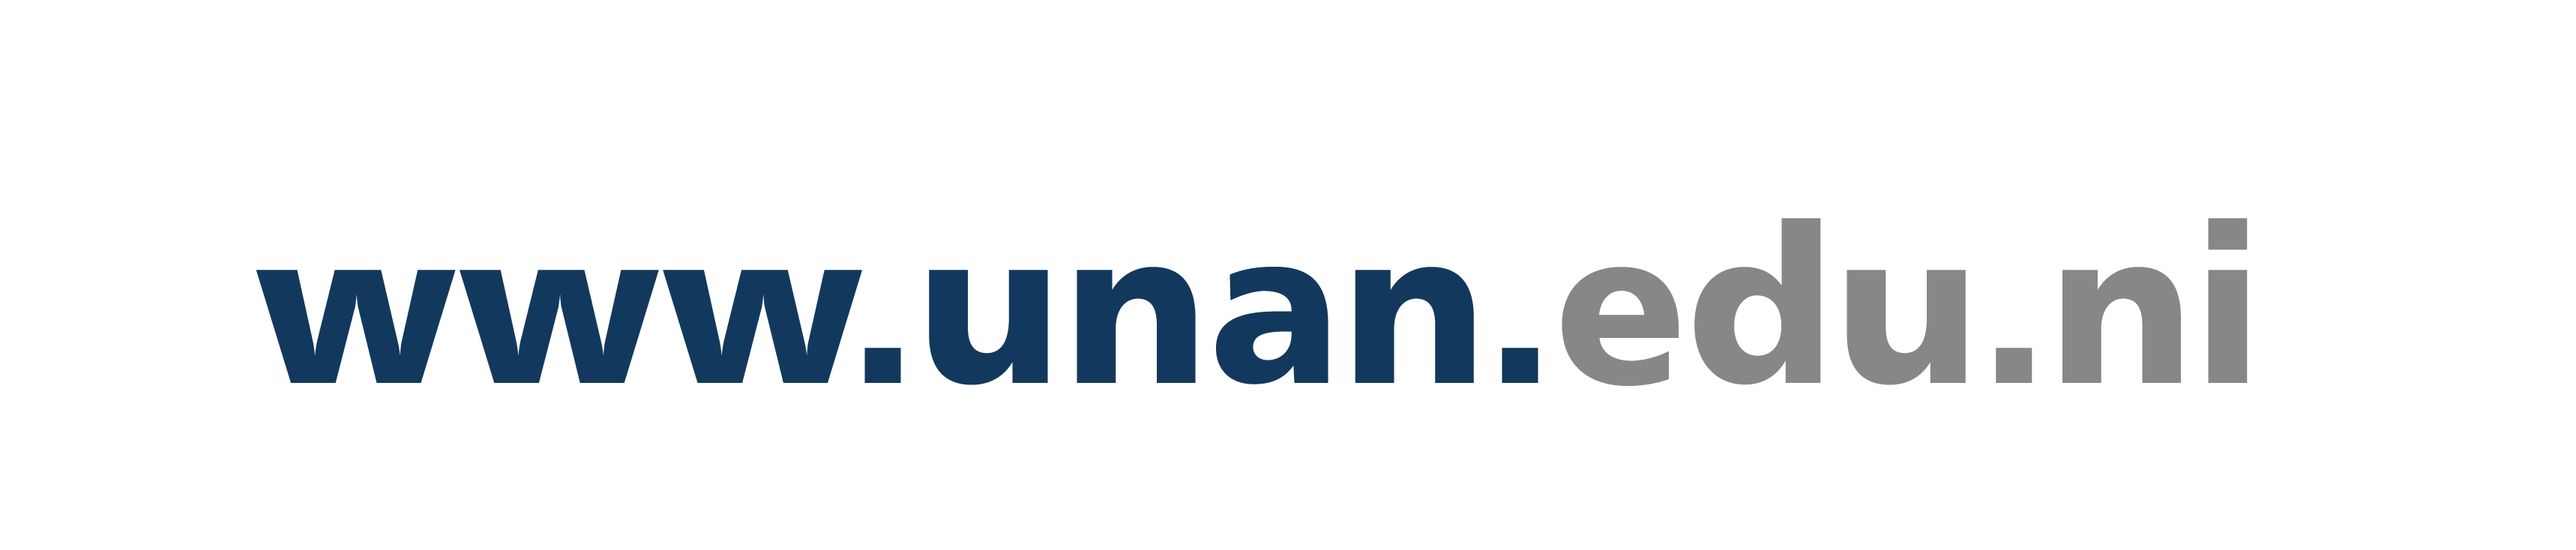
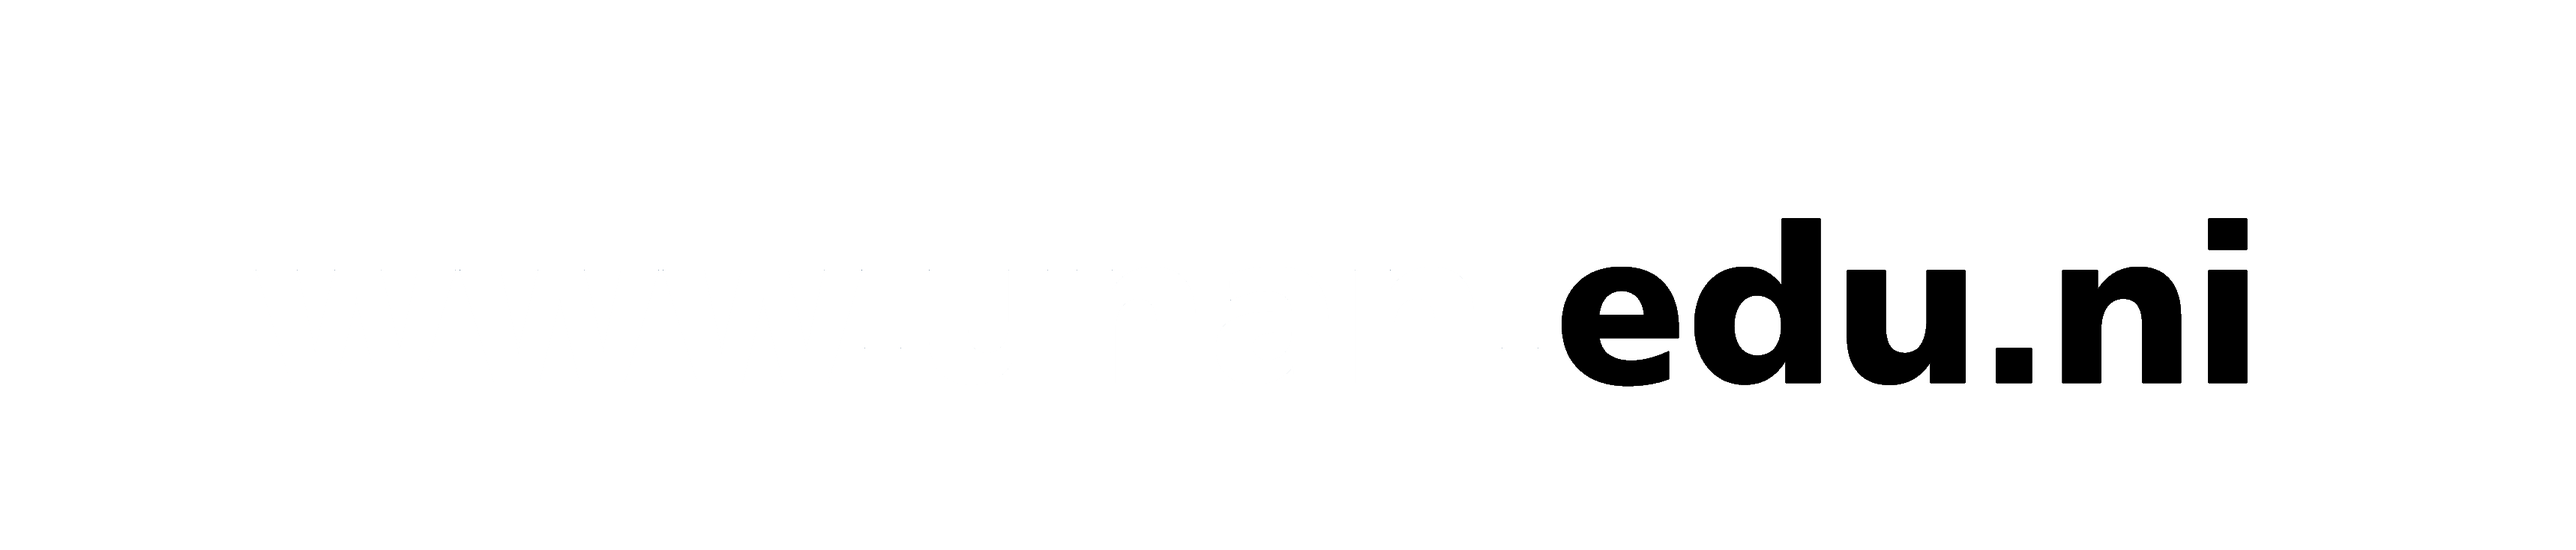
Ediciòn del pie de pàgina no tiene resposive

Changed region(s): [[0.0934, 0.3896, 0.8719, 0.7193], [0.8408, 0.3896, 0.8719, 0.4496]]

diff --git a/SNI_UI2/wwwroot/css/nicepage.css b/SNI_UI2/wwwroot/css/nicepage.css
@@ -1,4 +1,4 @@
-/*begin-commonstyles library*//*!
+//*begin-commonstyles library*//*!
  * froala_editor v4.0.6 (https://www.froala.com/wysiwyg-editor)
  * License https://froala.com/wysiwyg-editor/terms/
  * Copyright 2014-2021 Froala Labs
@@ -392,6 +392,7 @@ nav,
 section,
 summary {
   display: block;
+
 }
 audio,
 canvas,
@@ -3088,6 +3089,7 @@ section,
 header,
 footer {
   position: relative;
+  
 }
 section > *,
 header > *,
@@ -41872,9 +41874,9 @@ a.u-link.u-text-hover-grey-90:hover {
  .u-footer {
   background-image: none;
 }
-
+/*Ecanbezado primera parte*/
 .u-footer .u-sheet-1 {
-  min-height: 120px;
+  min-height: 15px;
 }
 
 .u-footer .u-text-1 {

diff --git a/SNI_UI2/wwwroot/css/Casa.css b/SNI_UI2/wwwroot/css/Casa.css
@@ -1,4 +1,4 @@
- .u-section-1 {
+.u-section-1 {
   /*background-color: rgb(201, 71, 71);*/
 background-image:url("/Media/Image/UNAN TORREON UNO.jpeg");
  background-position: 40% 0%;
@@ -2032,7 +2032,7 @@ height: 654px;
   height: 26px;
   width: 35px;
   
-  margin: 33px ;
+  margin: 0px ;
   /*white-space: nowrap;
   width: 25px;*/
 }
